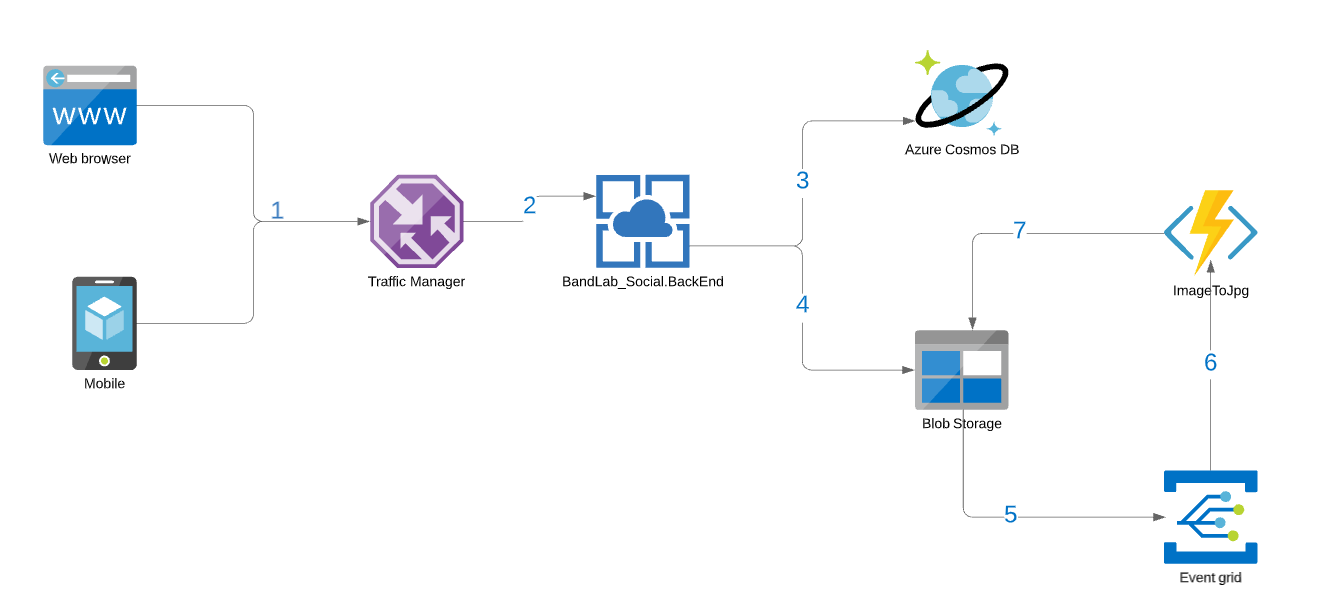
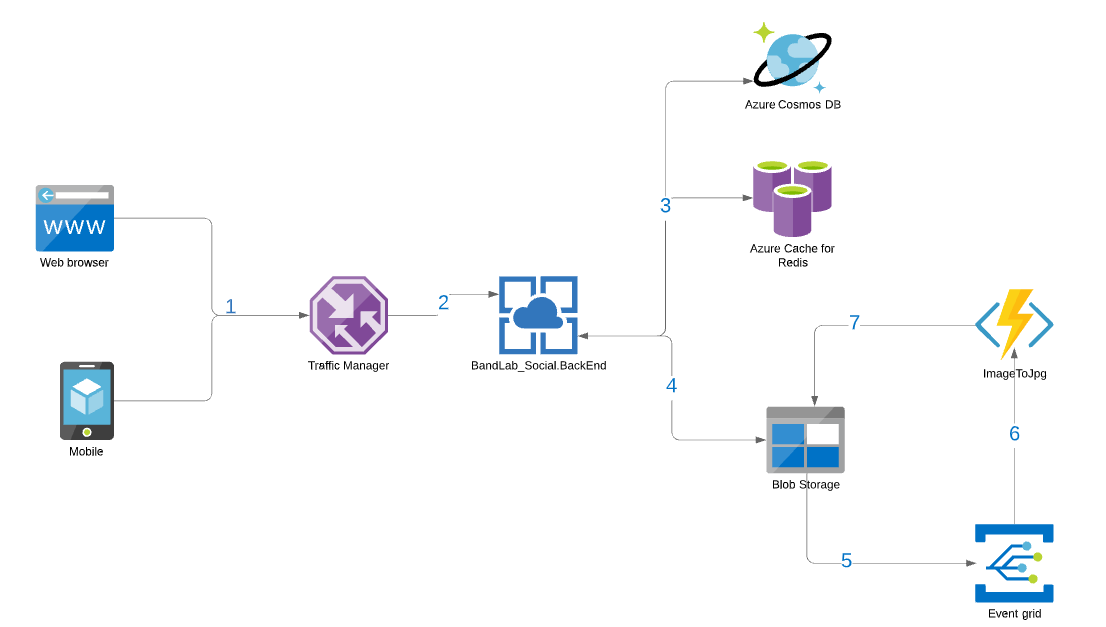
Update designer

diff --git a/README.md b/README.md
@@ -36,8 +36,9 @@ to each post
 - The web app accesses the back end service data and images via Traffic Manager. The web app can work in offline mode and continue processing data when online.
 - App service is used like as a backend (Restfull service) which process the posts/comments, store non-image data to the Cosmos database and store the origin image to the blob storage. This app is configured to auto scale.
 - Azure Functions used to converting any images to JPEG and output to the storage.
-- Azure Cosmos DB is used to store non-image data.
-- Blob storage is used to store the origin images and trigger events to the event grid.
+- Azure Cosmos DB is used to store non-image data to make sure high throughput and low latency
+- Azure Redis Cache is used with cache-aside pattern to optimize the performance.
+- Blob storage is used to store the origin images and trigger events to the event grid. Block blobs are optimized for uploading large amounts of data efficiently
 - Azure Traffic Manager controls the distribution of user traffic for service endpoints in different datacenters in order to deliver a highly responsive and available application.
 
 ## Roadmap
@@ -48,7 +49,7 @@ to each post
 - [ ] Apply Traffic Manager & configure app scale for backend
 - [ ] Mobile + web front end
 - [ ] Rename project to Imagegram
-
+- [ ] Apply redis cache and cache-aside pattern
 ## Bugs
 - Do not remove recent comments after remove comment.
 
